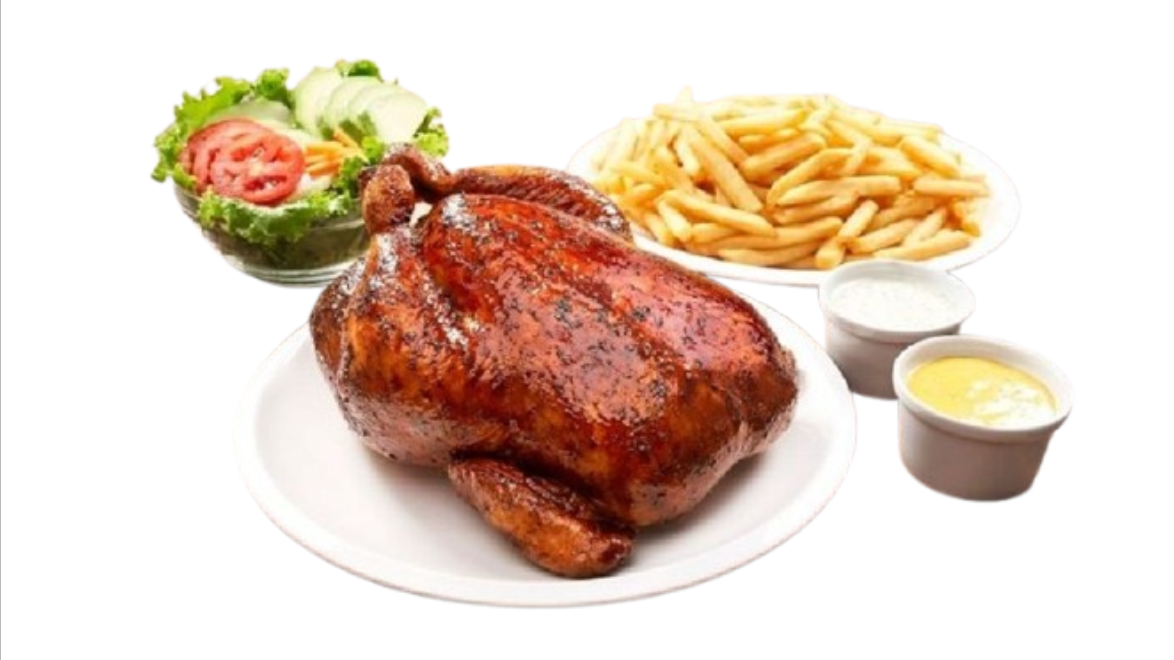
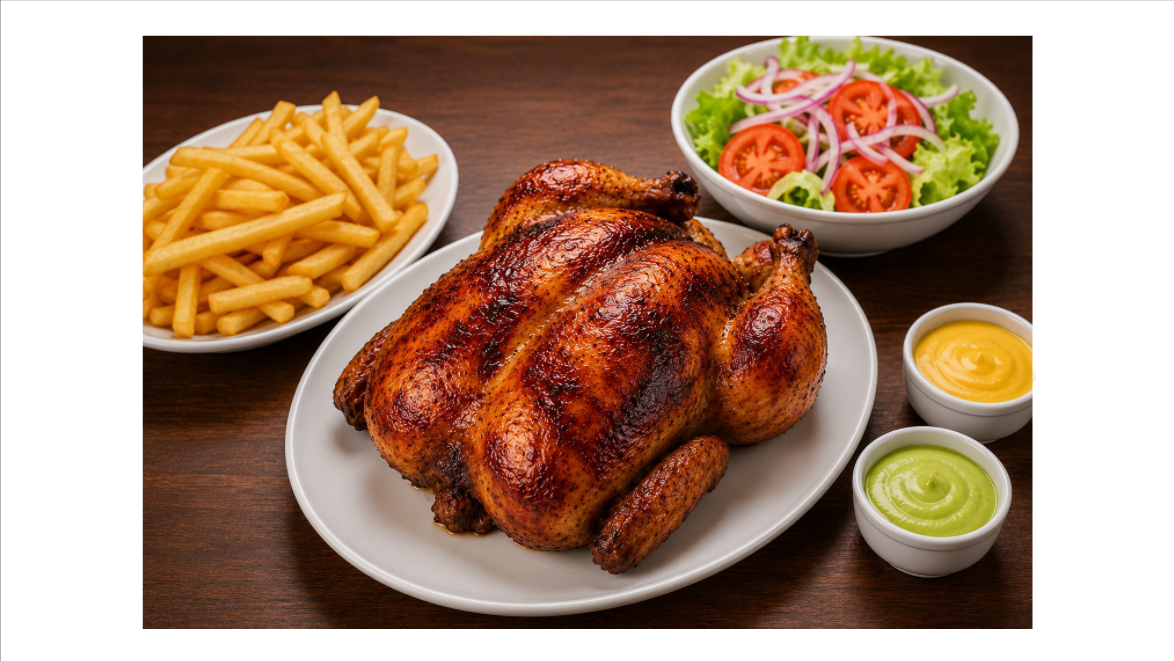
Agrega nuevas imágenes al menú y actualiza la ruta de la imagen de alfajores en products.js

diff --git a/scripts/products.js b/scripts/products.js
@@ -424,7 +424,7 @@ const products = [
         category: "desserts",
         price: 10.00,
         description: "Peruvian cookies filled with dulce de leche.",
-        image: "./images/menu/alfajores-box-of-6.jpg",
+        image: "./images/menu/alfajores.jpg",
         available: true
     },
 